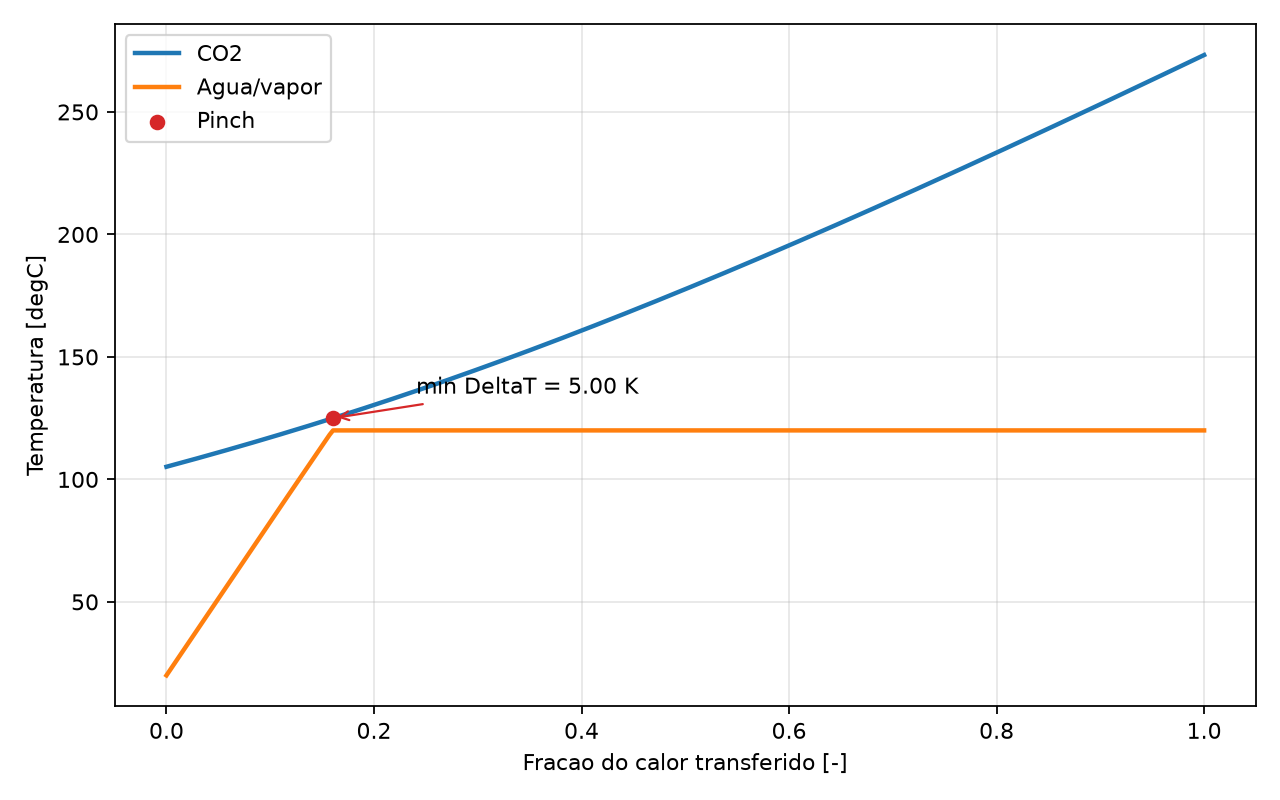
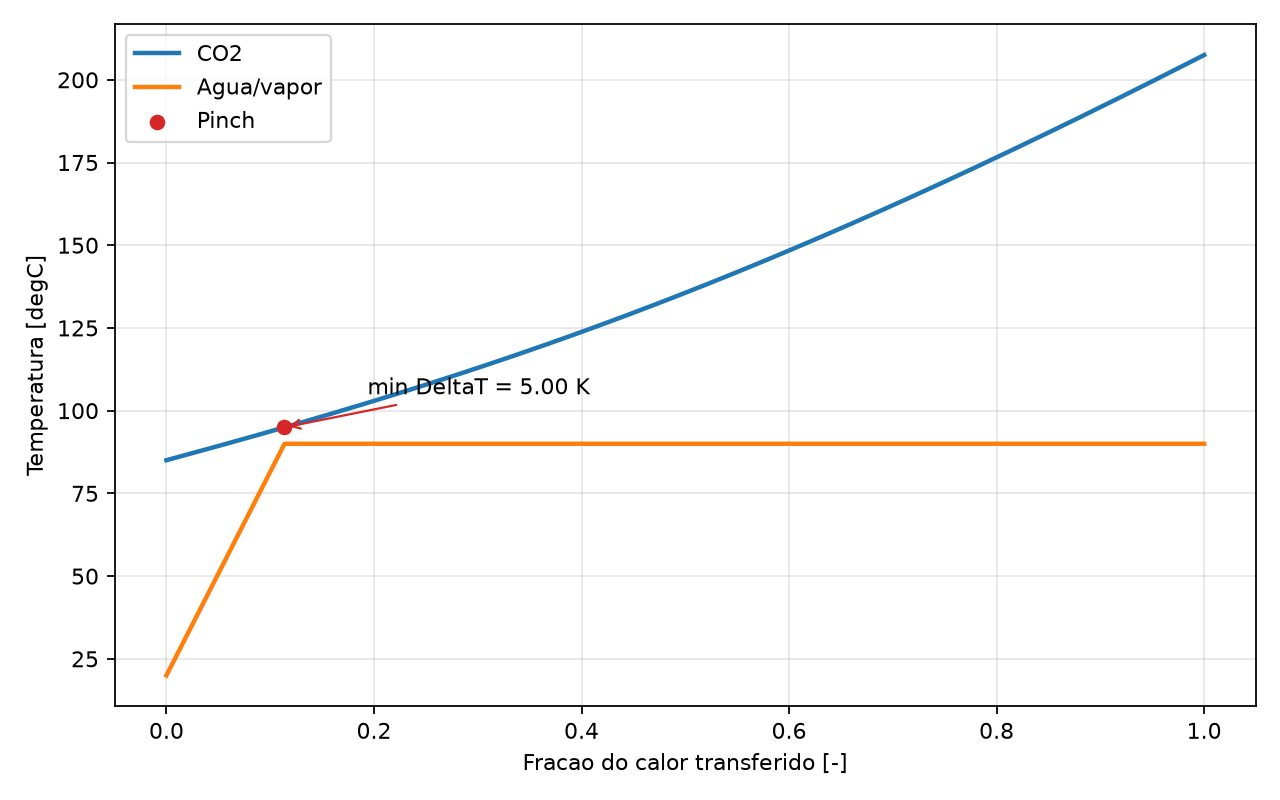
mudanca de temp vapor e evaporador
Mudanca na temperatura de saida da agua, para 90degC e evaporacao para  15degC

diff --git a/cycle_model.py b/cycle_model.py
@@ -28,9 +28,9 @@ from property_functions import (
 @dataclass(frozen=True)
 class CycleInputs:
     Q_sink: float = 120e3
-    T_steam: float = 120.0 + 273.15
+    T_steam: float = 90.0 + 273.15
     T_feedwater: float = 20.0 + 273.15
-    T_evap: float = 0.0 + 273.15
+    T_evap: float = 15.0 + 273.15
     eta_is_comp: float = 0.70
     eta_motor: float = 0.95
     epsilon_IHX: float = 0.70
